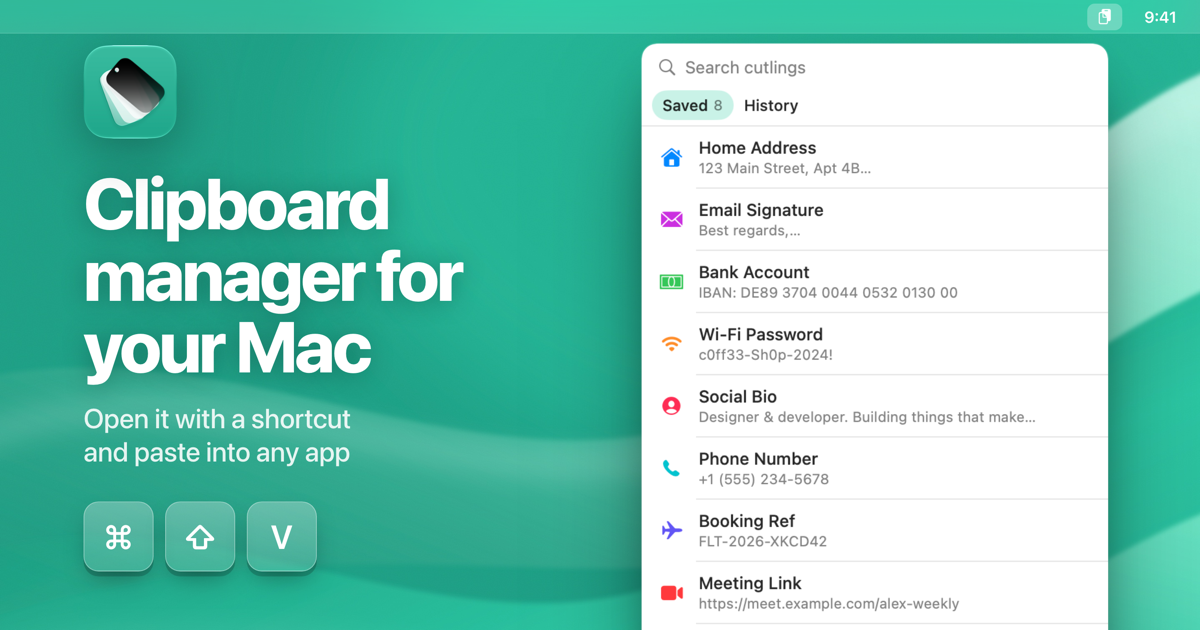
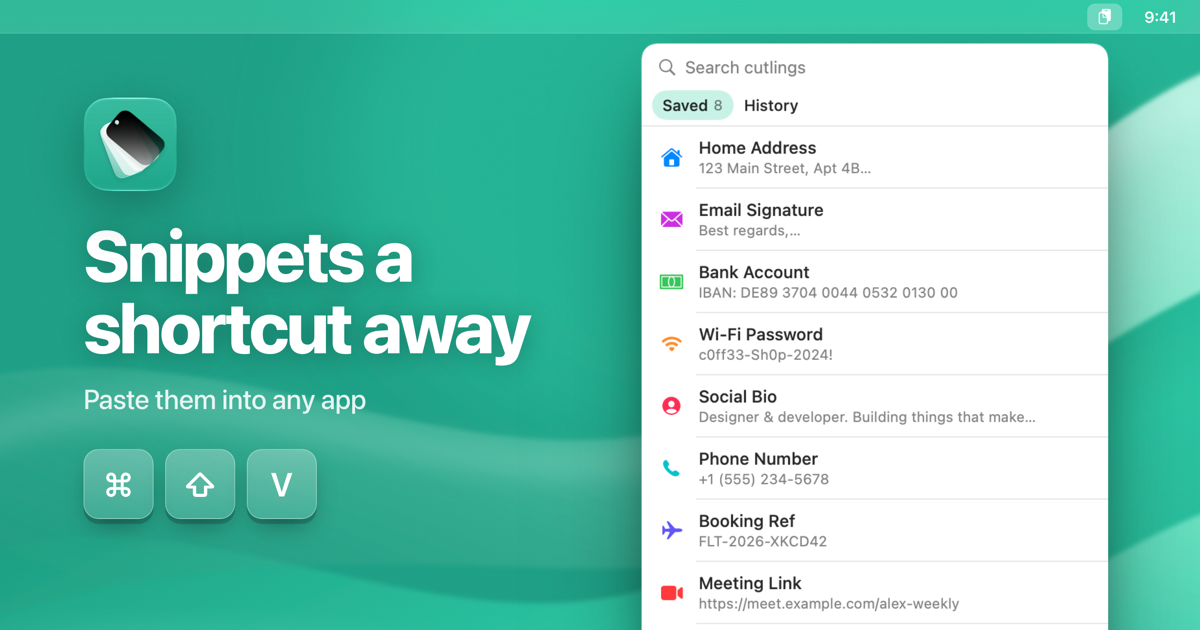
Cutling's link preview says Snippets a shortcut away, its own line apart from the store frame's headline

Changed region(s): [[0.0617, 0.0603, 0.4625, 0.9349]]

diff --git a/fastlane/compose/render_all.py b/fastlane/compose/render_all.py
@@ -130,22 +130,52 @@ COVER = os.path.join(ROOT, "fastlane", "listing-cover.png")  # 2880x1512, direct
 OG = os.path.join(ROOT, "web", "og.png")  # 1200x630 link preview
 
 
-def render_cover(page):
-    """Mac frame 01 rendered 1440x756 (#wide in mac/fit.js): the directory cover and the site's og:image."""
-    jp, rp = page.replace(".html", "-cover.json"), page.replace(".html", "-cover-results.json")
-    json.dump([dict(page=page + "#wide", png=COVER, w=1440, h=756, scale=2)], open(jp, "w"))
+# The site's link preview carries the site's own line; the store frame keeps the store headline.
+OG_HEADLINE = "Snippets a shortcut away"
+OG_SUB = "Paste them into any app"  # the store subline says "shortcut" again
+
+
+def with_headline(page, text, sub):
+    """A copy of a filled Mac page whose headline and subline read text and sub."""
+    import re
+    src = open(page, encoding="utf-8").read()
+    for cls, words in (("headline", text), ("sub", sub)):
+        src = re.sub(r'(<div class="%s"[^>]*>)(.*?)(</div>)' % cls,
+                     lambda m: m.group(1) + html.escape(words) + m.group(3), src, count=1)
+    out = page.replace(".html", "-og.html")
+    open(out, "w", encoding="utf-8").write(src)
+    return out
+
+
+def render_wide(page, png):
+    jp, rp = page.replace(".html", "-wide.json"), page.replace(".html", "-wide-results.json")
+    json.dump([dict(page=page + "#wide", png=png, w=1440, h=756, scale=2)], open(jp, "w"))
     subprocess.run(["node", os.path.join(ROOT, "fastlane", "compose", "render_cdp.mjs"), jp, rp, "1"], check=True)
-    if not json.load(open(rp))[0]["ok"]:
-        print("cover FAIL", json.load(open(rp))[0].get("error"), file=sys.stderr)
+    r = json.load(open(rp))[0]
+    if not r["ok"]:
+        print("wide FAIL", png, r.get("error"), file=sys.stderr)
+    return r["ok"]
+
+
+def render_cover(page, cover=True):
+    """Mac frame 01 rendered 1440x756 (#wide in mac/fit.js): the directory cover, and the site's og:image with OG_HEADLINE."""
+    if cover and not render_wide(page, COVER):
         return False
-    subprocess.run(["sips", "-z", "630", "1200", COVER, "--out", OG], stdout=subprocess.DEVNULL, check=True)
-    print("cover:", COVER, OG)
+    wide = page.replace(".html", "-og.png")
+    if not render_wide(with_headline(page, OG_HEADLINE, OG_SUB), wide):
+        return False
+    subprocess.run(["sips", "-z", "630", "1200", wide, "--out", OG], stdout=subprocess.DEVNULL, check=True)
+    print("cover:", COVER if cover else "(kept)", OG)
     return True
 
 
 if __name__ == "__main__":
     binary, args = sys.argv[1], sys.argv[2:]
     mac_only = "--mac-only" in args
+    if "--og-only" in args:  # only web/og.png, from the en-US Mac frame 01
+        work = tempfile.mkdtemp(prefix="cutling-og-")
+        mac_jobs(["en-US"], work)
+        sys.exit(0 if render_cover(os.path.join(work, "en-US-1.html"), cover=False) else 1)
     locales = [a for a in args if a != "--mac-only"] or sorted(
         d for d in os.listdir(os.path.join(ROOT, "fastlane", "metadata")) if not d.startswith("."))
     if not mac_only:
